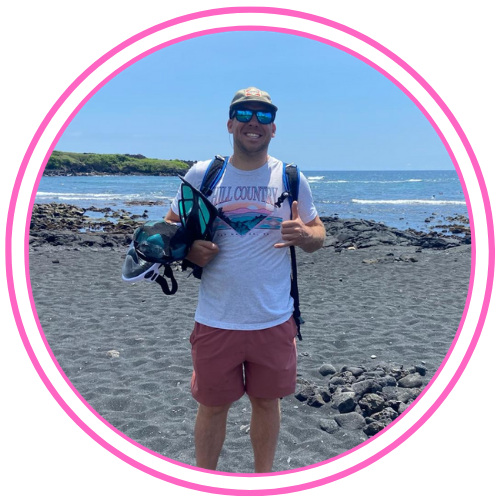
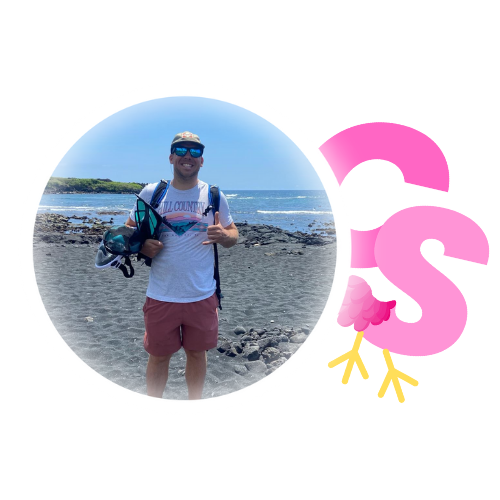
Add files via upload
Updated CSS / Picture and links

diff --git a/index.html b/index.html
@@ -1,4 +1,30 @@
 <html>
-    <h1>Cade's Portfolio</h1>
-    <img src= "./cadebio.png" />
-    </html>
+  <head>
+    <link rel="stylesheet" href="./style.css">
+    <link rel="preconnect" href="https://fonts.googleapis.com">
+<link rel="preconnect" href="https://fonts.gstatic.com" crossorigin>
+<link href="https://fonts.googleapis.com/css2?family=Noto+Serif:wght@700&display=swap" rel="stylesheet">
+<link href="https://cdn.jsdelivr.net/npm/bootstrap@5.1.1/dist/css/bootstrap.min.css" rel="stylesheet" integrity="sha384-F3w7mX95PdgyTmZZMECAngseQB83DfGTowi0iMjiWaeVhAn4FJkqJByhZMI3AhiU" crossorigin="anonymous">
+
+
+    
+  </head>
+  <body>
+  <div class="container">
+  <div class="row">
+    <div class="col">
+      <img class = "propic" src="./cadebio.png">
+    </div>
+    <div class="col">
+      Hello, my name is Cade Slayton.  I am a developer in training and hope to one day work for Google.  I am interested in Social Good projects, woodworking, nature and outdoors.  
+    </div>
+    <div class="col">
+<iframe class = "movie" src="https://www.youtube.com/embed/hS6naT51BlE" title="YouTube video player" frameborder="0" allow="accelerometer; autoplay; clipboard-write; encrypted-media; gyroscope; picture-in-picture" allowfullscreen></iframe>
+    </div>
+  </div>
+  <a href="https://github.com/cadeslayton"><img src="./github.png" class="github"></a>
+<a href="https://www.linkedin.com/in/cade-slayton/"><img src="./linkedin.png" class="linkedin"></a>
+</div>
+  </body>
+  
+</html>

diff --git a/style.css b/style.css
@@ -1,0 +1,38 @@
+html {
+   background-color:black;
+ }
+ 
+ .movie{
+   border-radius: 90px;
+   height: 500px;
+ }
+ 
+ 
+ .container{
+   margin-top:5px;
+   background-color: black;
+   color: white;
+   float:50% right;
+   font-family: 'Noto Serif', serif;
+   font-size: 35px;
+   padding: 150px;
+   border-radius:20px;
+   width:100%;
+   height:100%;
+   text-align: center;
+   font-style: italic;
+ }
+
+ .linkedin {
+   width: 300px;
+   height:auto;
+ }
+ .github {
+  width: 300px;
+  height:auto;
+}
+
+.propic{
+  width: 400px;
+  height: auto;
+}
